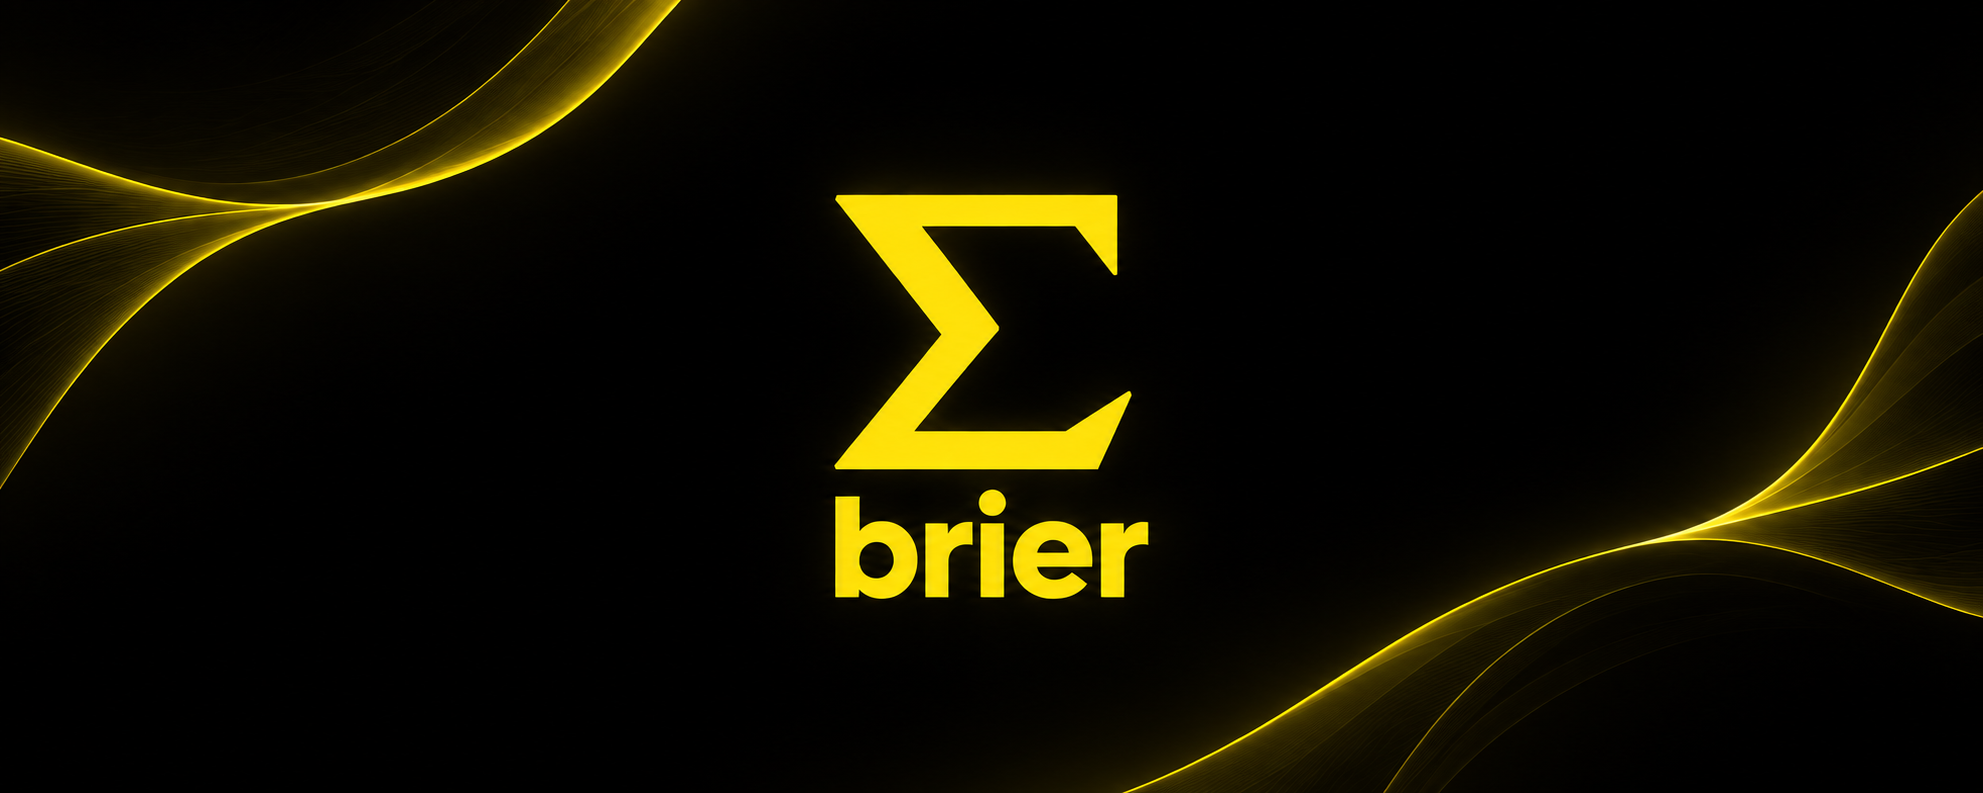
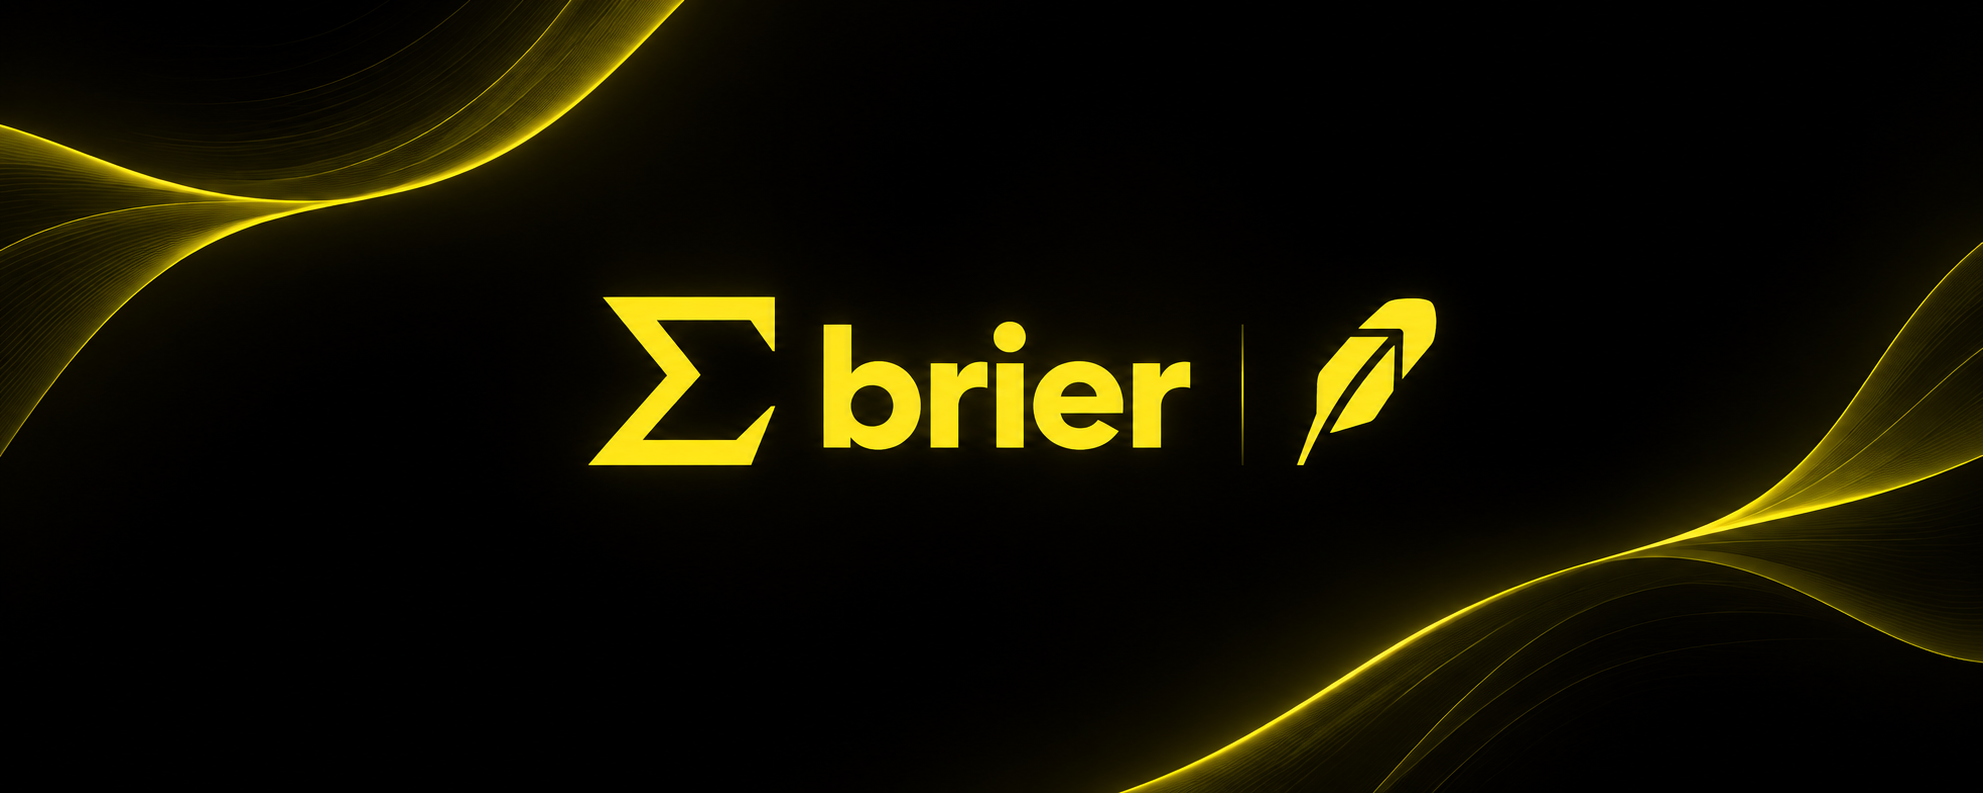
brand: lead with the chain
New banner carrying the Robinhood Chain mark beside the sigma, and the README
reordered so the anchor is the first thing after the problem table rather than
the last thing before Install. Chain ids and both RPCs are now on the page, so a
reader does not have to open docs/ANCHOR.md to know what they are pointing at.

Also states plainly what the mark means: brier is independent and unaffiliated,
and the Robinhood mark identifies the chain the ledger anchors to. The repo has
been careful about that with every other name it prints; no reason to stop here.

Claude-Session: https://claude.ai/code/session_01NDBxZw9uAdc4r5V5RfEJ7G

diff --git a/README.md b/README.md
@@ -10,7 +10,7 @@
   <img src="./assets/icon.png" alt="brier" width="104">
 </p>
 <p align="center">
-  <img src="./assets/banner.png" alt="brier: seal a probability before the answer exists, settle it from a source, grade it" width="100%">
+  <img src="./assets/banner.png" alt="brier, anchored on Robinhood Chain: seal a probability before the answer exists, settle it from a source, grade it, and date it on a public chain" width="100%">
 </p>
 
 <p align="center">
@@ -21,6 +21,11 @@
   <img alt="scoring" src="https://img.shields.io/badge/scoring-proper%20rules-E9E9E4?style=flat-square&labelColor=000000">
   <img alt="anchored on Robinhood Chain" src="https://img.shields.io/badge/anchored-Robinhood%20Chain-FFE10A?style=flat-square&labelColor=000000">
   <img alt="license" src="https://img.shields.io/badge/license-MIT-FFE10A?style=flat-square&labelColor=000000">
+</p>
+
+<p align="center">
+  <sub><b>ANCHORED ON ROBINHOOD CHAIN</b> &nbsp;·&nbsp; chain <code>4663</code> &nbsp;·&nbsp;
+  every head hash dated by a block, on a clock the forecaster does not own</sub>
 </p>
 
 <p align="center">
@@ -59,6 +64,88 @@ brier demo && brier score
 | "was it right?" | when it said 70%, how often was it true, in bins, with the reference line drawn | `calibrate` |
 | settling only the questions that went well | the ledger refuses to settle a question nobody answered | enforced |
 | a hash chain proves nothing about *when* — the author holds the file, the hashes and the clock | the head hash is written to **Robinhood Chain**, and the date comes out of the block | `anchor` |
+
+---
+
+## Anchored on Robinhood Chain
+
+> **Every forecast in this ledger can be dated by a block on Robinhood Chain —
+> not by a timestamp its own author typed.**
+
+That sentence is the reason this repository is worth anything, and it is worth
+explaining why it needed a chain at all.
+
+The hash chain in this repository proves one thing and quietly fails to prove
+another, and the source says so out loud:
+
+> *A whole file can be rewritten and rehashed by whoever holds it.*
+
+Edit one probability and every hash after it breaks — that part works. But the
+file, the hashes and the clock are all in the forecaster's hands, so a chain by
+itself cannot prove a prediction was sealed **before** the answer existed. That
+is the only claim this tool is actually for.
+
+So the head hash goes somewhere with a clock nobody here owns:
+
+```
+0x 62726965 5d3b33de…d4a1f1 00000000000004b0
+   └ "brie"  └ the chain head  └ 1200 records
+```
+
+Forty-four bytes of calldata in one zero-value transaction on **Robinhood
+Chain** — a permissionless, EVM-compatible Ethereum L2 built on Arbitrum, chain
+`4663` on mainnet and `46630` on testnet. No contract, no ABI, no token, no
+approval. Open the transaction in the explorer, delete the first ten characters,
+compare the next sixty-four with what `brier ledger --verify` prints. It works
+from a phone.
+
+| | before an anchor | after one |
+|---|---|---|
+| the file has not been edited | ✅ the hash chain | ✅ the hash chain |
+| the file existed on a given date | ❌ your word | ✅ **a block on Robinhood Chain** |
+
+| Robinhood Chain | key | chain id | rpc |
+|---|---|---|---|
+| **mainnet** | `robinhood` | `4663` | `https://rpc.mainnet.chain.robinhood.com` |
+| **testnet** | `robinhood-testnet` | `46630` | `https://rpc.testnet.chain.robinhood.com` |
+
+Testnet is the default so the example above costs nothing and anyone can repeat
+it. Mainnet is one flag: `brier anchor --network robinhood`.
+
+The chain is not a decoration bolted on the side. These questions settle against
+market readings, and Robinhood Chain is the settlement layer for tokenised
+equities — dating a forecast about that market on the ledger of that market is
+the version of this that makes sense.
+
+```sh
+brier anchor                 # the head, the calldata, and the command to send it
+brier anchor 0x<txhash>      # read it back off the chain and record it
+brier anchor --check         # re-read every anchor and confirm it still matches
+```
+
+**brier holds no private key.** It prepares the bytes and prints the command; you
+broadcast with your own wallet. `src/anchor/rpc.ts` has four methods in it and
+every one of them reads — `eth_sendRawTransaction` is not there. A tool that
+grades your forecasts has no business being able to spend your money, and the
+cheapest way to be certain is for the capability to be absent from the source.
+
+Reading an anchor back is four refusals, not a formality:
+
+- the RPC's own `eth_chainId` must be the chain it claims to be
+- the calldata must carry the `0x62726965` tag, at the right length
+- **the 32 bytes must equal the head this file actually had at record *n***. If
+  the chain says one thing and the file says another, the file is what changed
+- an unmined transaction has no date, so it is not an anchor yet
+
+And the accepted anchor is appended to the ledger and hash-chained like
+everything else — stamped with the **block's** timestamp, the only clock in the
+whole file that did not come from the author.
+
+[docs/ANCHOR.md](./docs/ANCHOR.md).
+
+<sub>brier is an independent open-source project. It is not affiliated with, endorsed by, or sponsored by
+Robinhood Markets, Inc. The Robinhood mark identifies the chain this ledger anchors to, and belongs to its
+owner.</sub>
 
 ---
 
@@ -103,70 +190,6 @@ npm run viz:video               # the recording above (needs ffmpeg)
 The two lines worth staring at are in the middle panel. The white one is the confidence the loudest
 forecaster stated; the yellow one is how often the side it took actually won. Two hundred questions in,
 they have not met.
-
----
-
-## Anchored on Robinhood Chain
-
-The hash chain in this repository proves one thing and quietly fails to prove
-another, and the source says so out loud:
-
-> *A whole file can be rewritten and rehashed by whoever holds it.*
-
-Edit one probability and every hash after it breaks — that part works. But the
-file, the hashes and the clock are all in the forecaster's hands, so a chain by
-itself cannot prove a prediction was sealed **before** the answer existed. That
-is the only claim this tool is actually for.
-
-So the head hash goes somewhere with a clock nobody here owns:
-
-```
-0x 62726965 5d3b33de…d4a1f1 00000000000004b0
-   └ "brie"  └ the chain head  └ 1200 records
-```
-
-Forty-four bytes of calldata in one zero-value transaction on **Robinhood
-Chain** — a permissionless, EVM-compatible Ethereum L2 built on Arbitrum, chain
-`4663` on mainnet and `46630` on testnet. No contract, no ABI, no token, no
-approval. Open the transaction in the explorer, delete the first ten characters,
-compare the next sixty-four with what `brier ledger --verify` prints. It works
-from a phone.
-
-| | before an anchor | after one |
-|---|---|---|
-| the file has not been edited | ✅ the hash chain | ✅ the hash chain |
-| the file existed on a given date | ❌ your word | ✅ the block |
-
-The chain is not a decoration bolted on the side. These questions settle against
-market readings, and Robinhood Chain is the settlement layer for tokenised
-equities — dating a forecast about that market on the ledger of that market is
-the version of this that makes sense.
-
-```sh
-brier anchor                 # the head, the calldata, and the command to send it
-brier anchor 0x<txhash>      # read it back off the chain and record it
-brier anchor --check         # re-read every anchor and confirm it still matches
-```
-
-**brier holds no private key.** It prepares the bytes and prints the command; you
-broadcast with your own wallet. `src/anchor/rpc.ts` has four methods in it and
-every one of them reads — `eth_sendRawTransaction` is not there. A tool that
-grades your forecasts has no business being able to spend your money, and the
-cheapest way to be certain is for the capability to be absent from the source.
-
-Reading an anchor back is four refusals, not a formality:
-
-- the RPC's own `eth_chainId` must be the chain it claims to be
-- the calldata must carry the `0x62726965` tag, at the right length
-- **the 32 bytes must equal the head this file actually had at record *n***. If
-  the chain says one thing and the file says another, the file is what changed
-- an unmined transaction has no date, so it is not an anchor yet
-
-And the accepted anchor is appended to the ledger and hash-chained like
-everything else — stamped with the **block's** timestamp, the only clock in the
-whole file that did not come from the author.
-
-[docs/ANCHOR.md](./docs/ANCHOR.md).
 
 ---
 
@@ -403,10 +426,11 @@ into 0.5, and it is not dropped from the denominator either.
 | Glenn W. Brier, *Verification of forecasts expressed in terms of probability* (1950) | the score, the name, and the default seed |
 | Allan H. Murphy, *A new vector partition of the probability score* (1973) | reliability − resolution + uncertainty |
 | Philip Tetlock, *Expert Political Judgment* | the foxes and the hedgehogs, and the finding this repository measures |
+| [Robinhood Chain](https://docs.robinhood.com/chain) | a public clock for the head hash — chain `4663`, EVM, built on Arbitrum |
 | Node 20 standard library | the hash chain, the HTTP client, the test runner |
 | [`commander`](https://github.com/tj/commander.js) | argument parsing, and the whole of the dependency list |
 
-brier is independent of xAI, Anthropic and every data source named in it. Model names appear only as
+brier is independent of xAI, Anthropic, Robinhood Markets, Inc. and every data source named in it. Model names appear only as
 configuration defaults; no marks are used and none are implied. The mark, the palette and every image in this
 README are its own — [docs/BRAND.md](./docs/BRAND.md).
 
